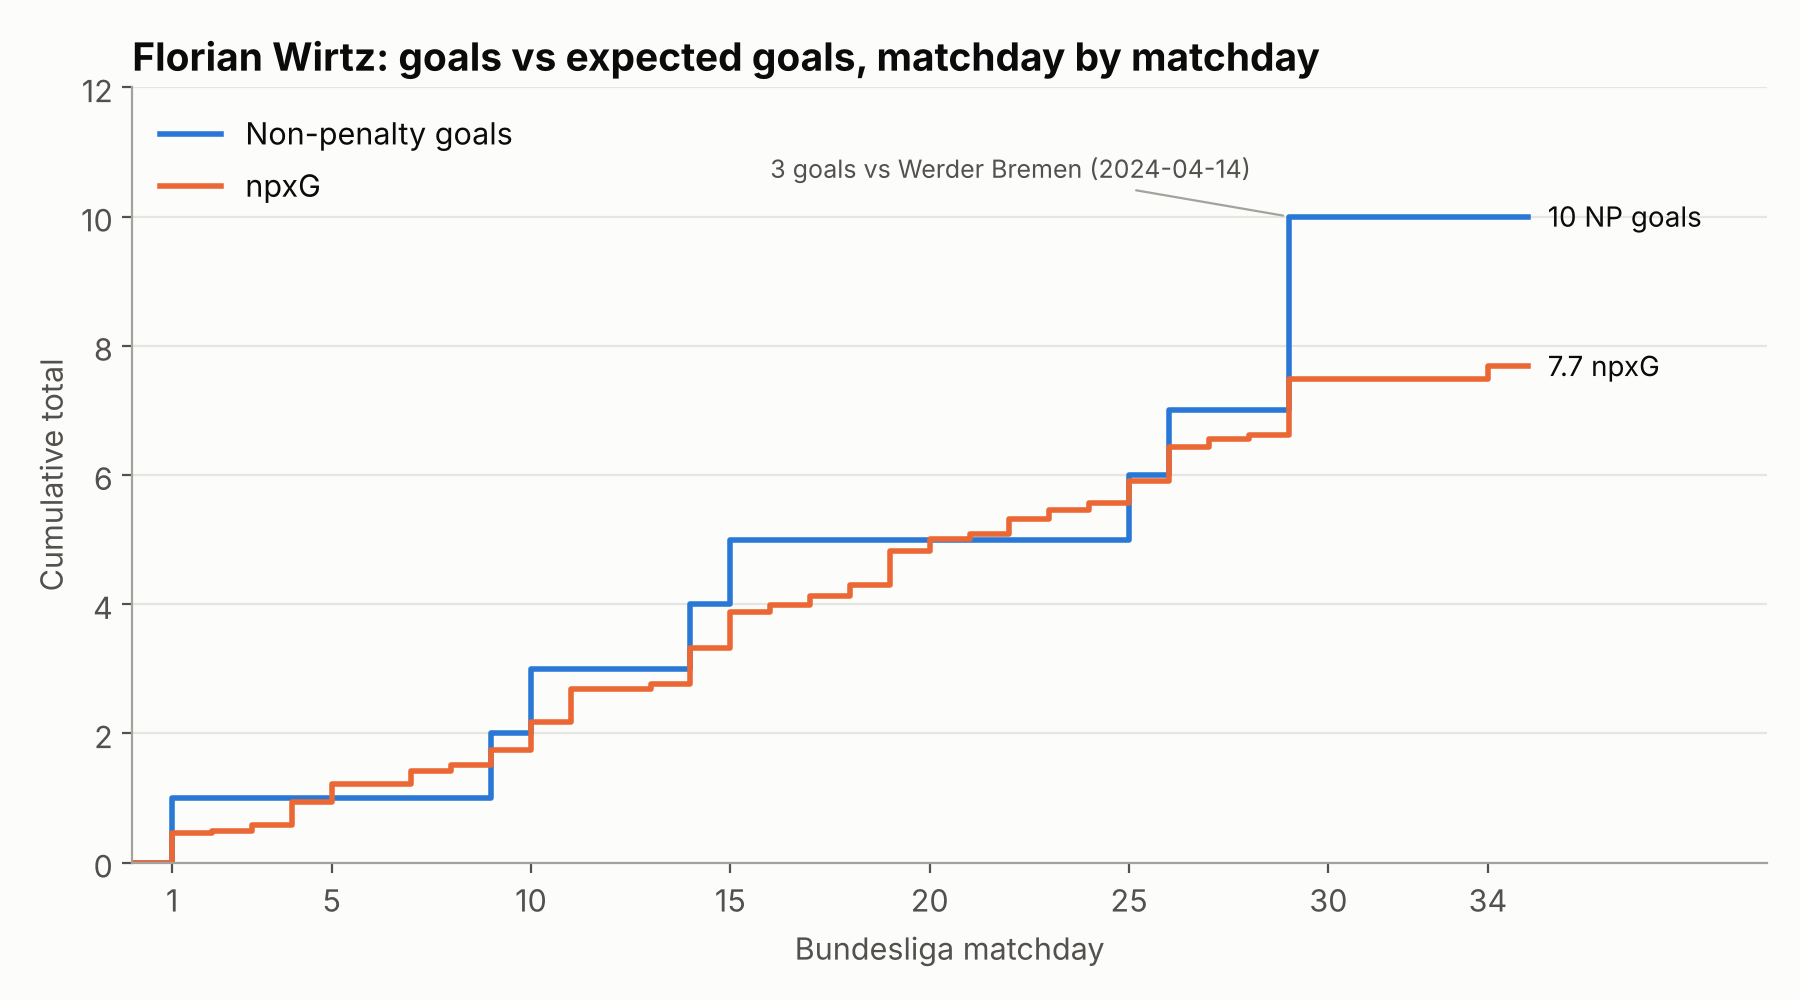
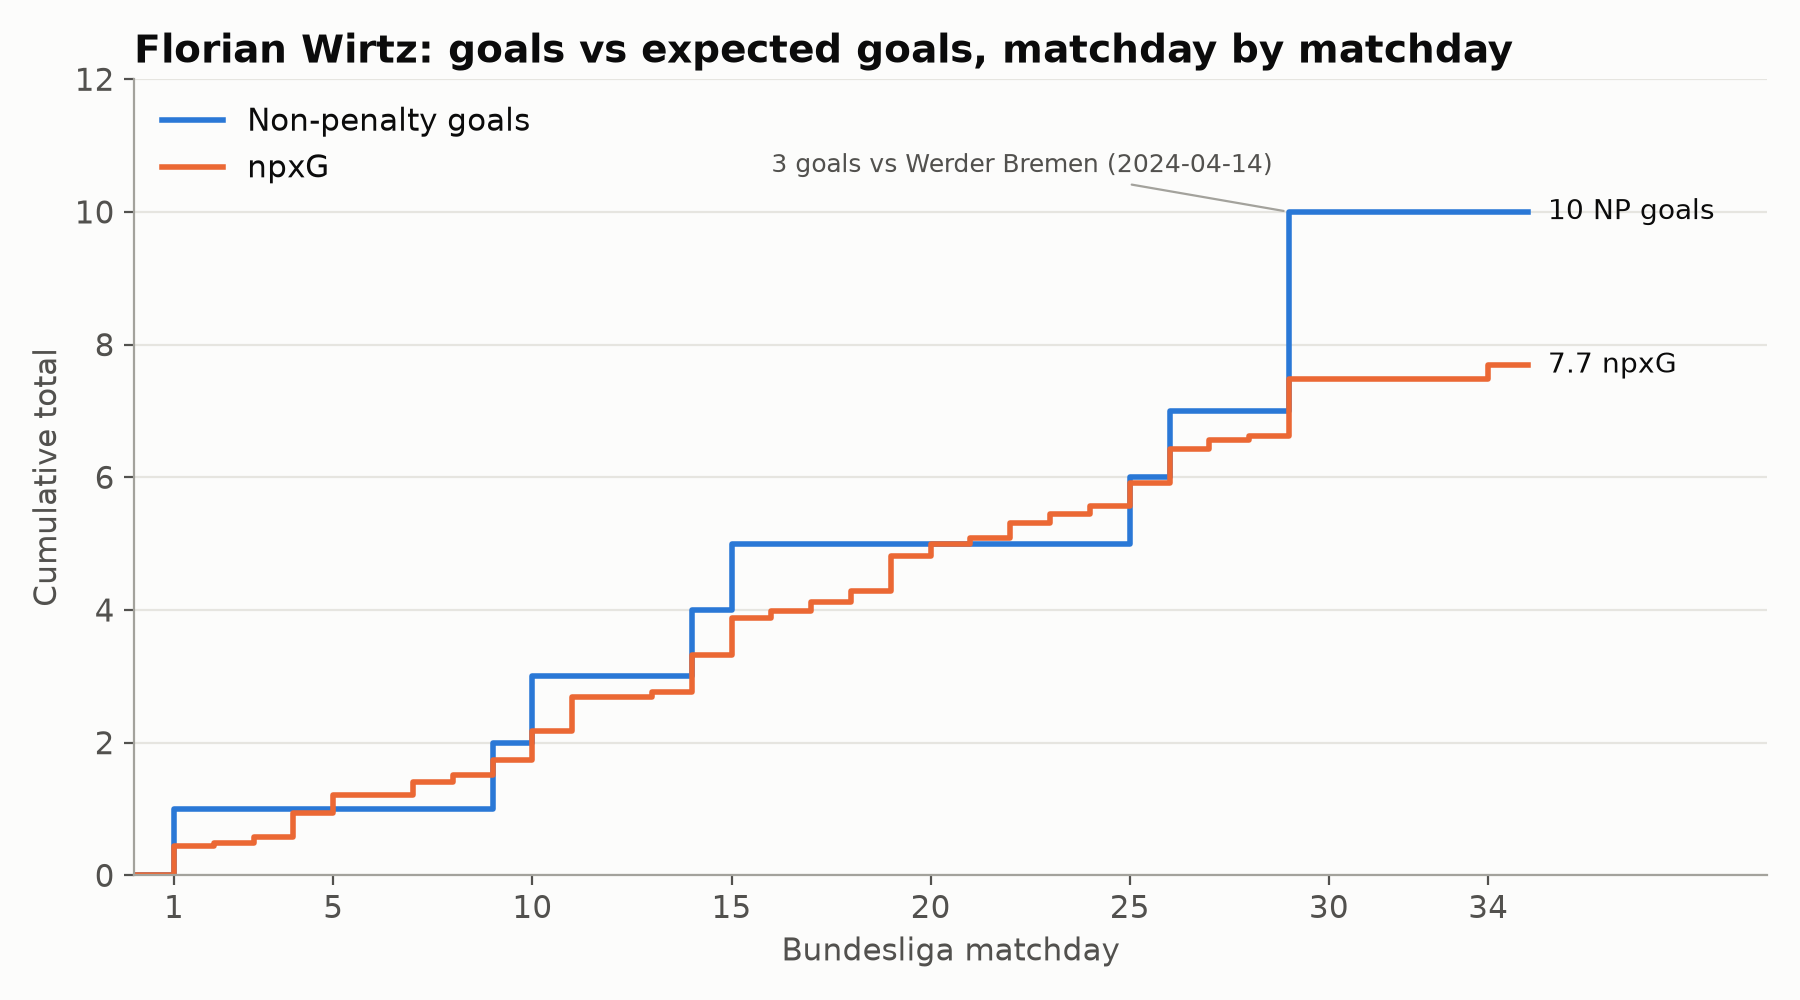
Slim down dashboard dependencies for Streamlit Cloud
Move jupyter/kaleido to requirements-dev.txt (136 -> 59 packages to install)
and import statsbombpy only when rebuilding the database.

diff --git a/src/database.py b/src/database.py
@@ -9,9 +9,6 @@ import warnings
 
 import duckdb
 import pandas as pd
-from statsbombpy import sb
-
-warnings.filterwarnings("ignore", module="statsbombpy")
 
 ROOT = Path(__file__).resolve().parents[1]
 DB_PATH = ROOT / "data" / "statsbomb.duckdb"
@@ -20,6 +17,9 @@ DB_PATH = ROOT / "data" / "statsbomb.duckdb"
 def build_database(competition_id: int = 9, season_id: int = 281,
                    db_path: Path = DB_PATH) -> Path:
     """Download one competition-season and (re)write the matches and shots tables."""
+    from statsbombpy import sb   # only needed when downloading
+    warnings.filterwarnings("ignore", module="statsbombpy")
+
     matches = sb.matches(competition_id=competition_id, season_id=season_id)
     matches = matches[["match_id", "match_date", "home_team", "away_team",
                        "home_score", "away_score"]].copy()

diff --git a/README.md b/README.md
@@ -151,7 +151,7 @@ covering calculated fields, parameters, a running-total table calculation and a 
 ## How to run
 
 ```bash
-pip install -r requirements.txt
+pip install -r requirements.txt        # add requirements-dev.txt for the notebook
 python run.py                                   # Florian Wirtz (default)
 python run.py --player "Victor Okoh Boniface"   # any Leverkusen player
 streamlit run app.py                            # interactive dashboard
